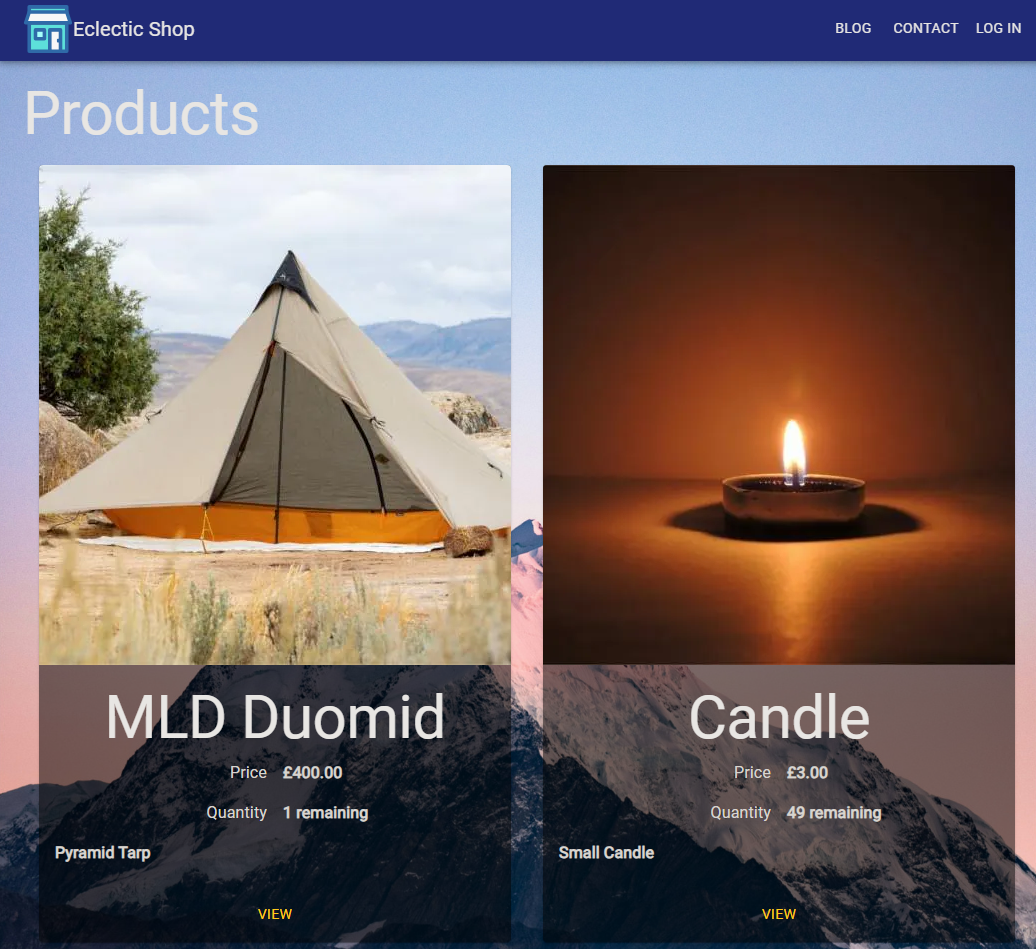
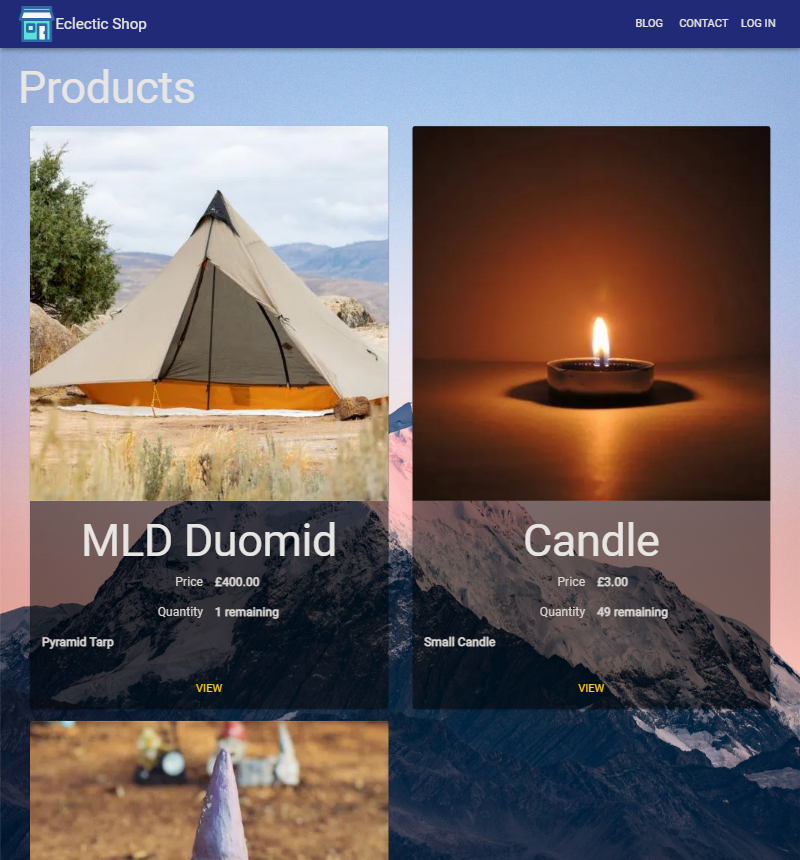
added more projects and images to firebase and homepage, updated README.md tech stack

diff --git a/src/home.tsx b/src/home.tsx
@@ -17,6 +17,7 @@ import { TechSection, TechProp } from "/components/TechSection";
 
 export function Home() {
 
+  // Site images should be 800x860px to stay consistent
   const projects: ExampleProp[] = [
     {
       title: "Destiny Item App",
@@ -62,20 +63,20 @@ export function Home() {
       order: 3,
     },
     {
-      title: "Dashboard?",
-      url: "",
-      description: "Placeholder description",
-      imgPath: "",
+      title: "Dashboard",
+      url: "https://dancing-zabaione-3f64c1.netlify.app/",
+      description: "PLACEHOLDER A dashboard app made to interface with the warframe API and a weather one.",
+      imgPath: "/cardImg/dashboard.png",
       imgUrl: "",
       github: "",
       splash: "/cardImg/forest_med.jpg",
       order: 4,
     },
     {
-      title: "Some API app?",
-      url: "",
-      description: "Placeholder description",
-      imgPath: "",
+      title: "Cars API App",
+      url: "https://magnificent-kringle-441279.netlify.app/",
+      description: "PLACEHOLDER An application made to consume an external API.",
+      imgPath: "/cardImg/carsapi.png",
       imgUrl: "",
       github: "",
       splash: "/cardImg/mountain_med.jpg",

diff --git a/src/portfolio.tsx b/src/portfolio.tsx
@@ -16,7 +16,7 @@ import { Card, ExampleProp } from "/components/Card";
 //   title: string;
 //   url: string;
 //   description: string;
-//   imgPath: string;
+//   imgPath: string; /cardImg/<imageName>
 //   imgUrl: string;
 //   github: string;
 //   order: number;

diff --git a/README.md b/README.md
@@ -9,3 +9,5 @@ Tech
 - Node.js
 - Tailwind CSS
 - Vite
+- Hygraph (Blog DB)
+- Firebase (Projects DB)
